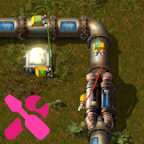
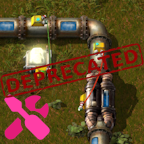
refactor: migrate to khaoscircuitry

Changed region(s): [[0.0, 0.2778, 1.0, 0.6944]]

diff --git a/README.md b/README.md
@@ -1,14 +1,6 @@
-[![Factorio mod portal](https://img.shields.io/badge/dynamic/json?color=orange&label=Factorio&query=downloads_count&suffix=%20downloads&url=https%3A%2F%2Fmods.factorio.com%2Fapi%2Fmods%2Fsimple-gauge-tweaks&style=for-the-badge)](https://mods.factorio.com/mod/simple-gauge-tweaks)
-[![Crowdin translate](https://img.shields.io/badge/Crowdin-Translate-brightgreen?style=for-the-badge)](https://crowdin.com/project/factorio-mods-localization)
-[![GitHub issues: bugs](https://img.shields.io/github/issues/QuingKhaos/simple-gauge-tweaks/bug?label=Bug%20Reports&style=for-the-badge)](https://github.com/QuingKhaos/simple-gauge-tweaks/issues?q=is%3Aissue%20state%3Aopen%20label%3Abug)
-[![GitHub pull requests](https://img.shields.io/github/issues-pr/QuingKhaos/simple-gauge-tweaks?label=Pull%20Requests&style=for-the-badge)](https://github.com/QuingKhaos/simple-gauge-tweaks/pulls)
-[![Ko-fi](https://img.shields.io/badge/Ko--fi-support%20me-hotpink?logo=kofi&logoColor=white&style=for-the-badge)](https://ko-fi.com/quingkhaos)
+[![The Foundry](https://img.shields.io/badge/foundrygg-4a1402?style=for-the-badge&logo=vercel&logoColor=white)](https://foundrygg.com/)
+[![Discord community](https://img.shields.io/badge/Discord-%235865F2.svg?style=for-the-badge&logo=discord&logoColor=white)](https://discord.gg/SYmkaDjFCt)
 
-# Simple Gauge Tweaks
+# [DEPRECATED] Simple Gauge Tweaks
 
-Opinionated tweaks to [Simple Gauge](https://mods.factorio.com/mod/simple-gauge).
-For a full list of changes, take a look at the changelog.
-
-If you want to see some new tweaks, feel free to open a discussion thread on the
-mod portal or a GitHub issue. Eventually some non so opinionated tweaks will
-make it into the original mod.
+Functionality migrated to [QuingKhaos' Circuitry Tweaks](https://mods.factorio.com/mod/khaoscircuitry).
